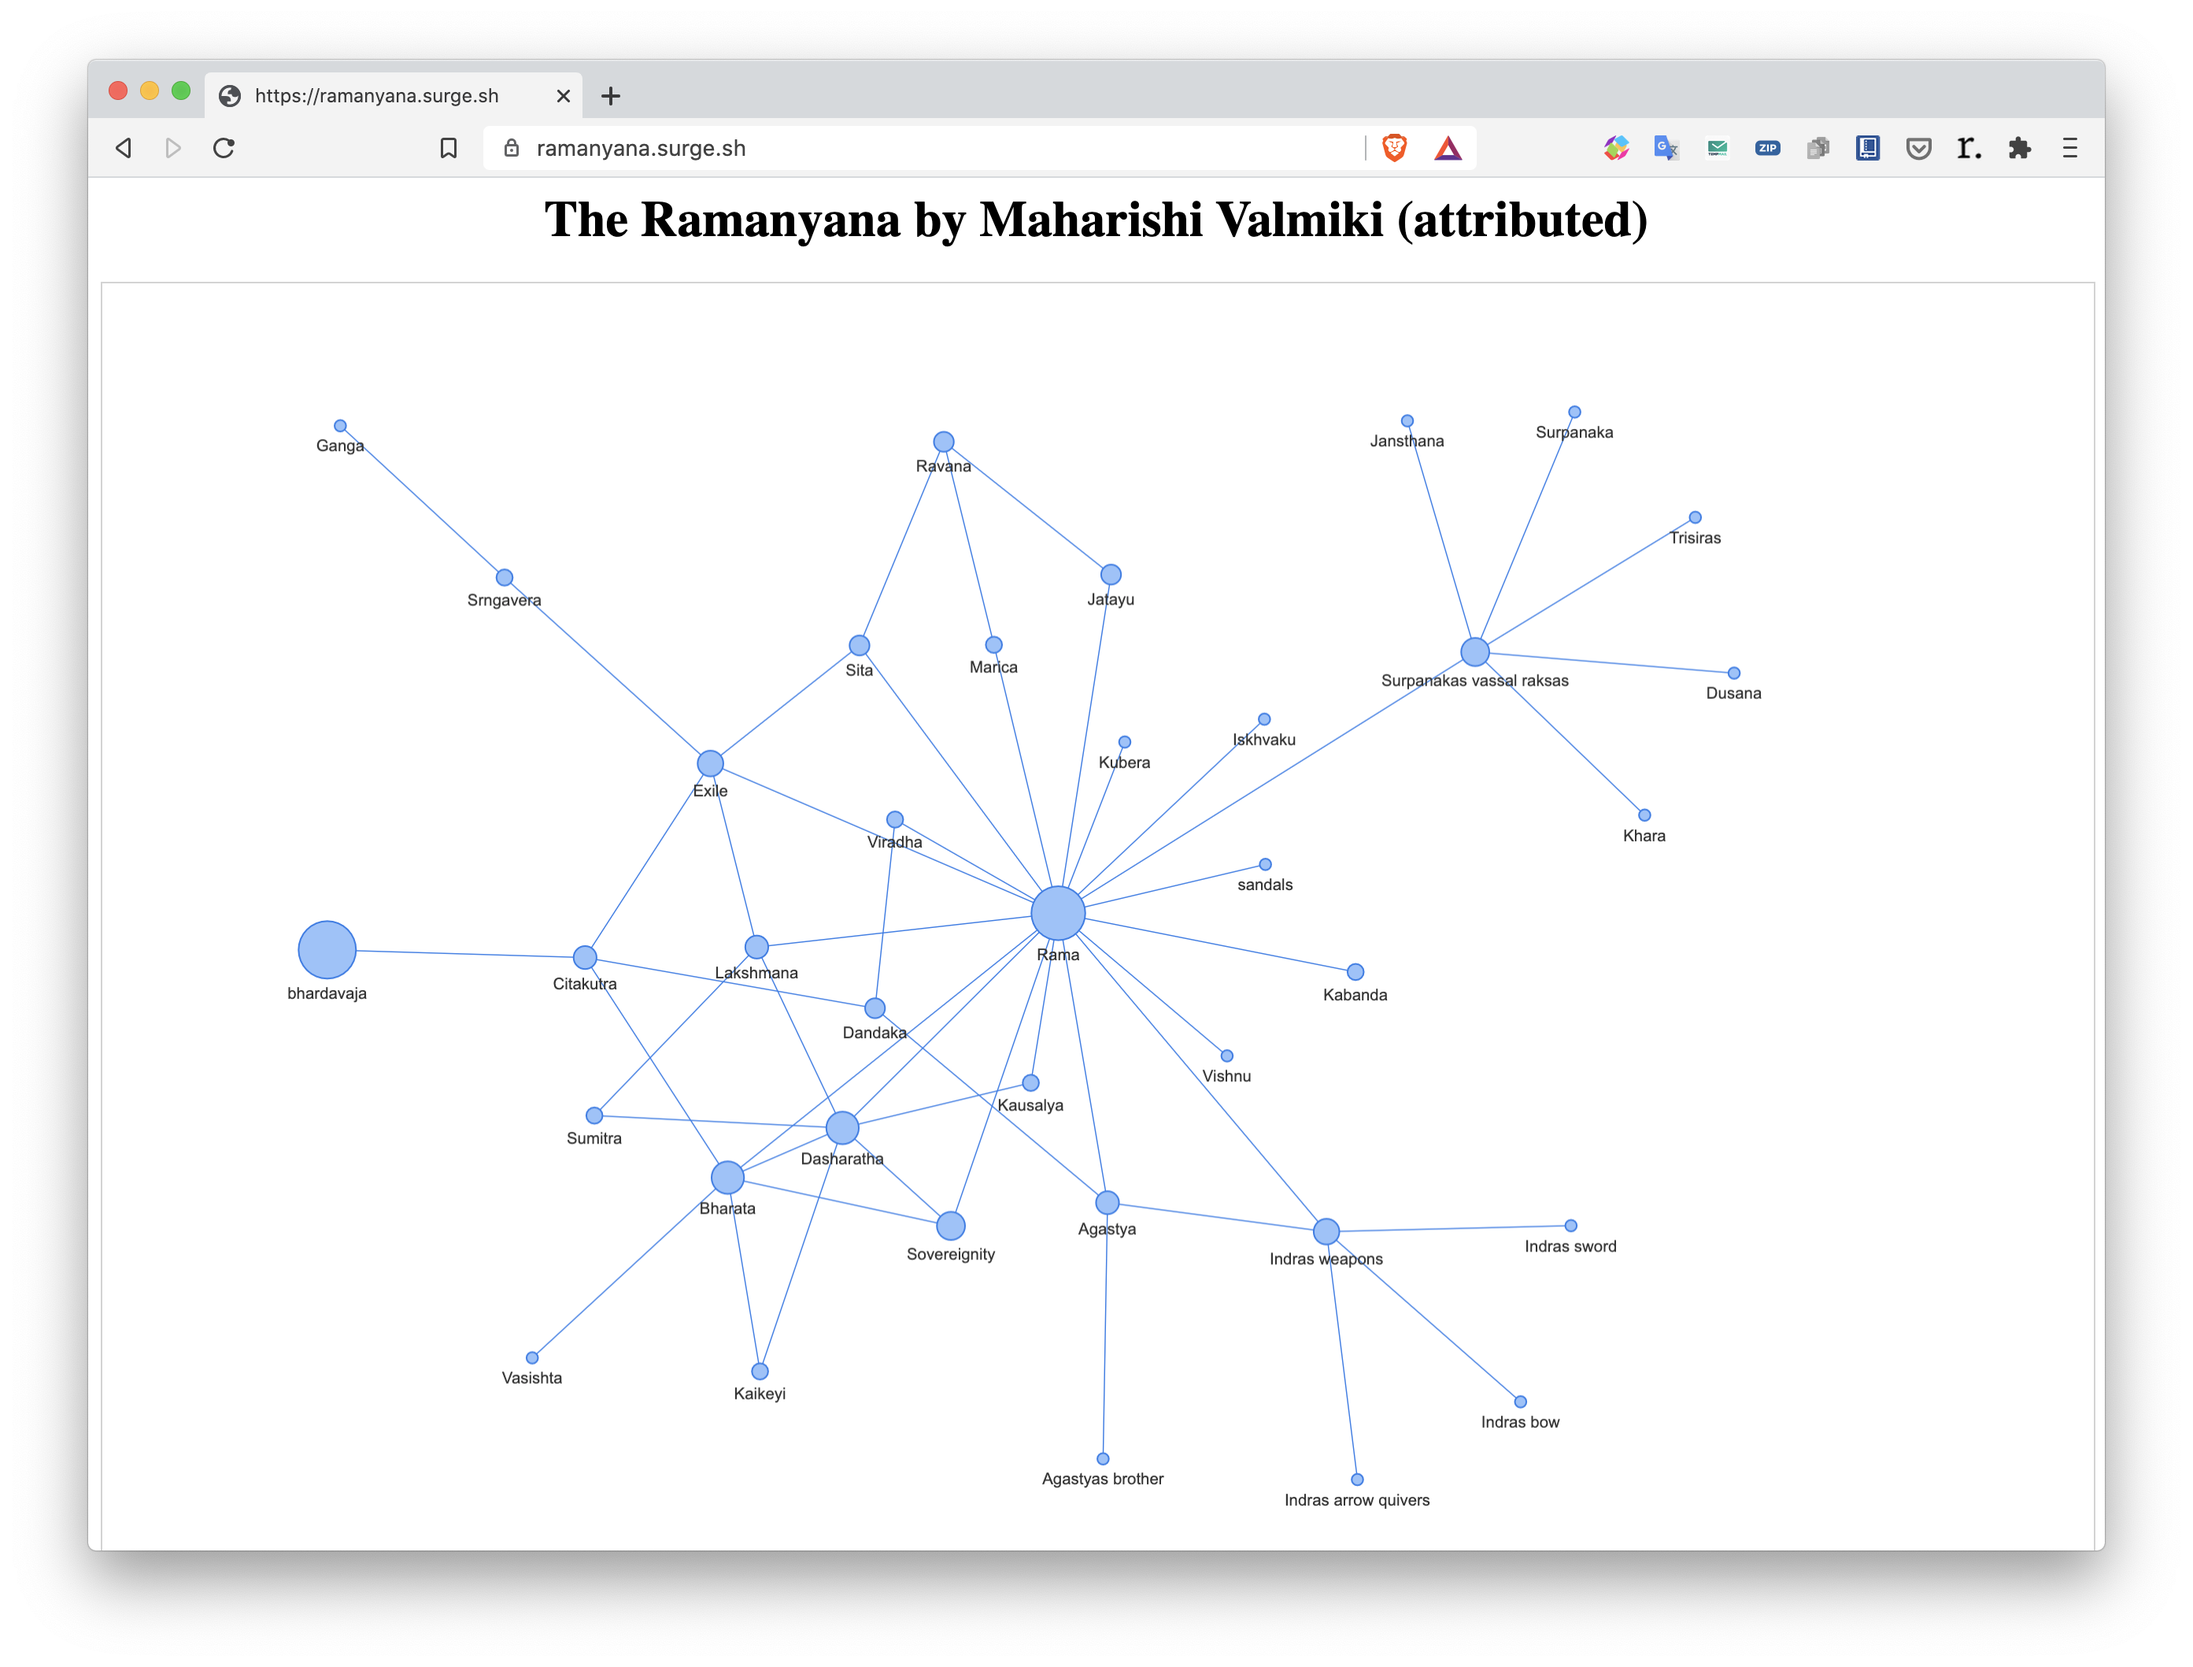
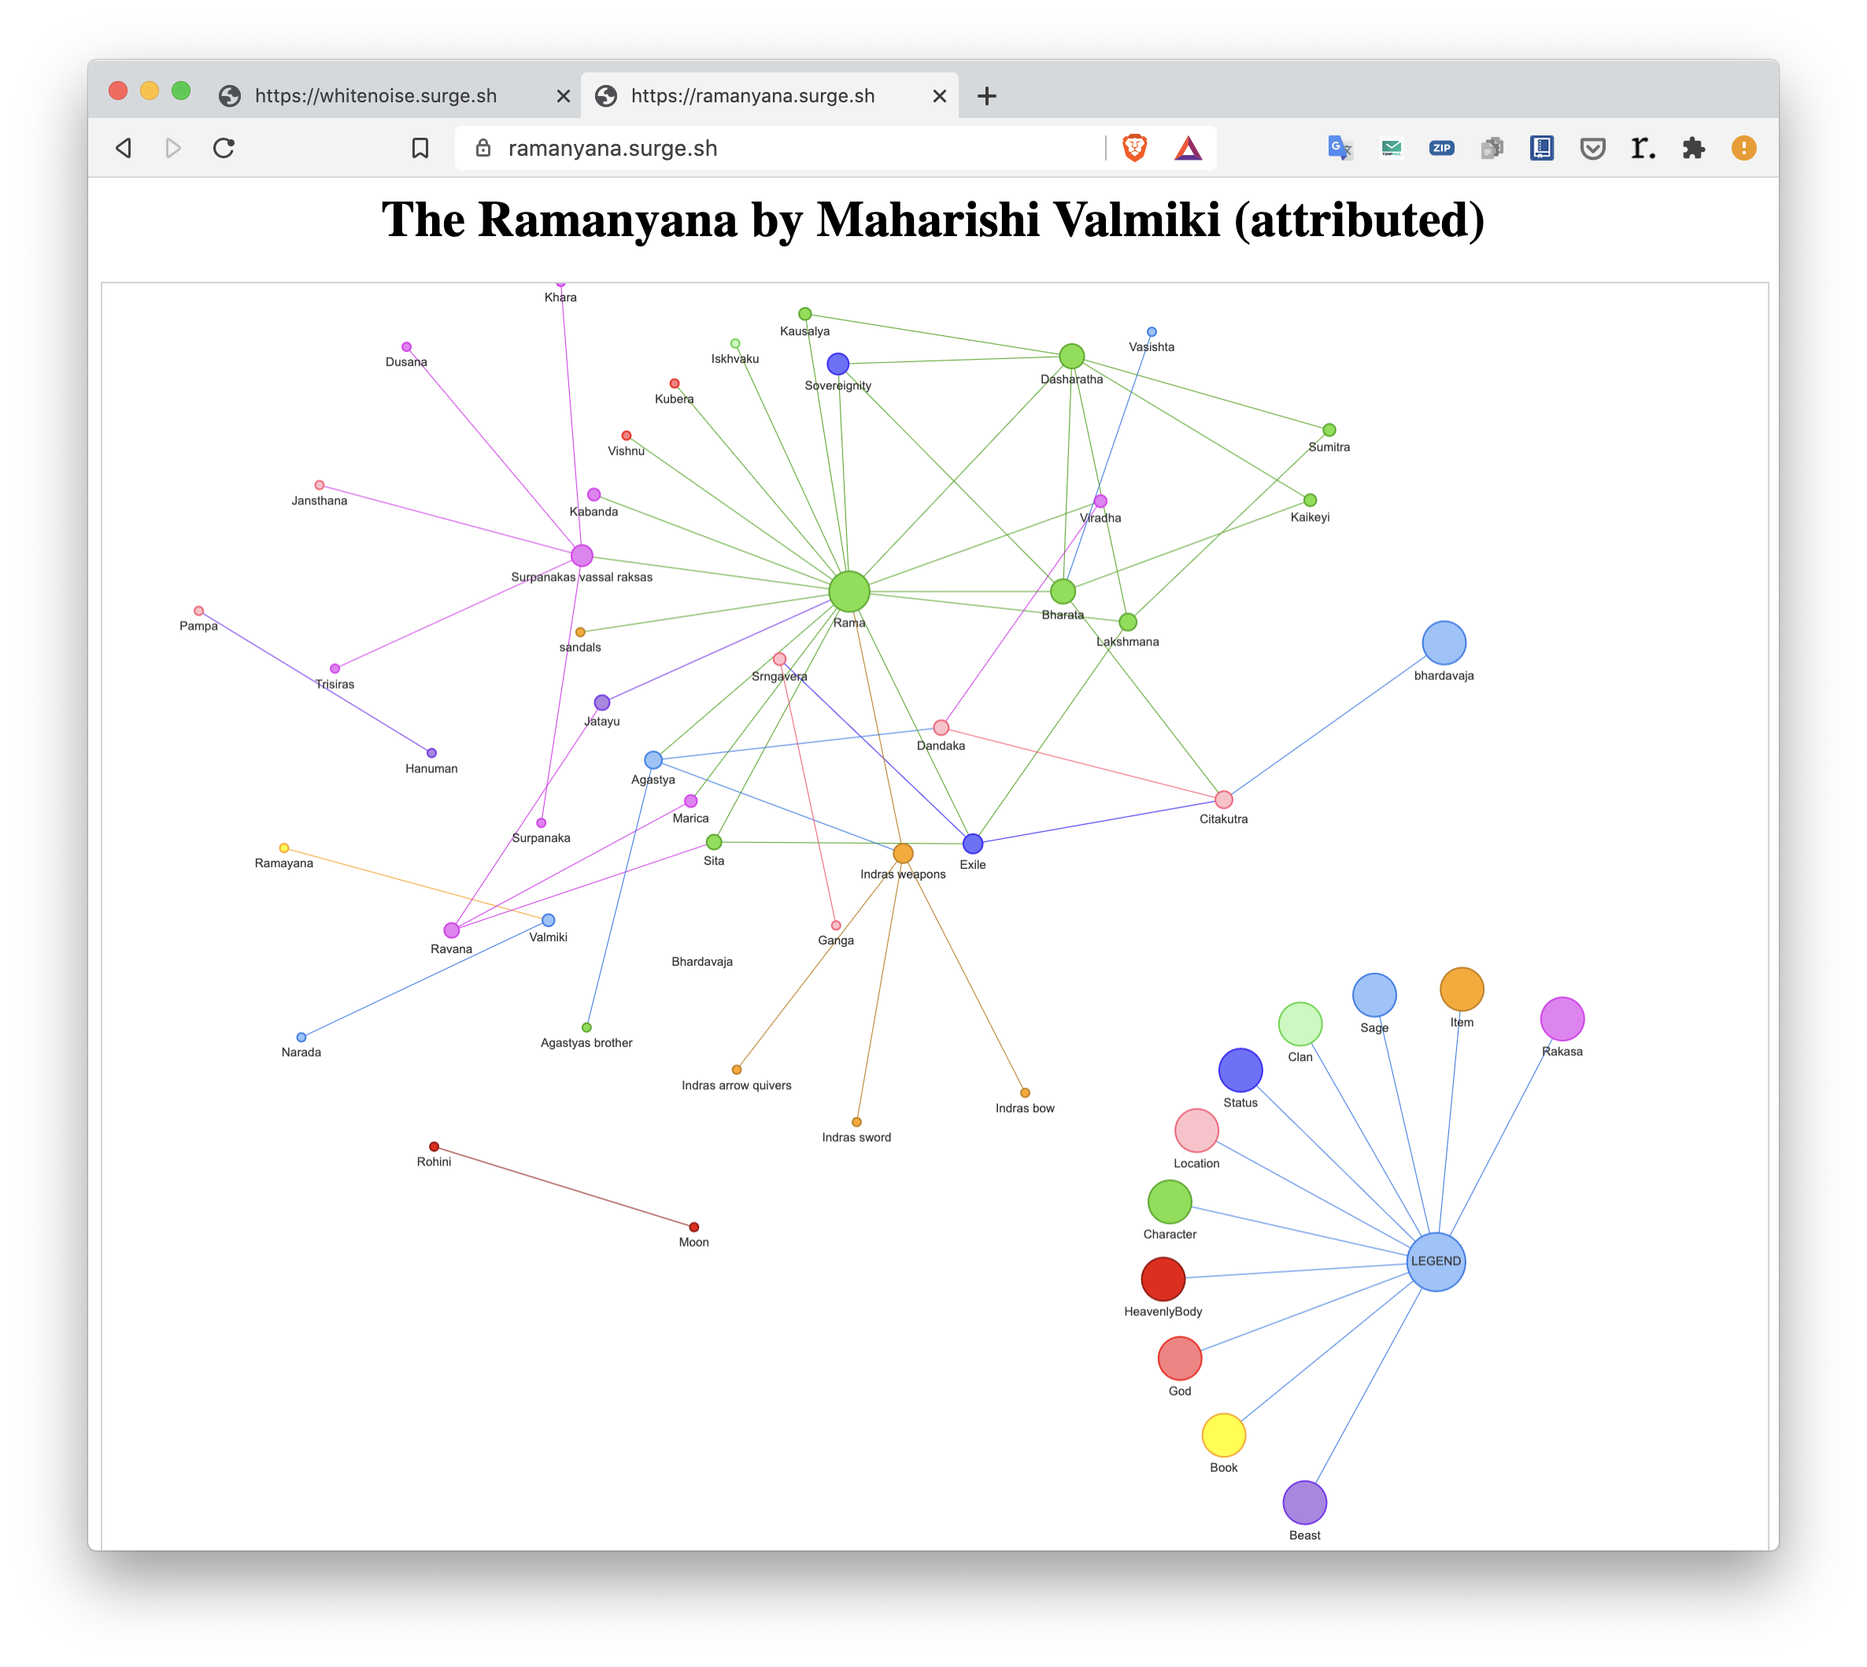
imporoved cy2p -- grouped, shapes (temporary off), bugfixes

diff --git a/utils/cy2pyvis.py b/utils/cy2pyvis.py
@@ -9,6 +9,7 @@ import collections
 from math import sqrt
 from subprocess import Popen
 from pyvis.network import Network
+from pyvis.node import Node
 
 
 def get_lines(filename: str) -> list:
@@ -31,12 +32,21 @@ def is_node(line: str) -> bool:
 
 
 def is_edge(line: str) -> bool:
-    return "[" in line
+    return "[:" in line
 
 
 def get_var_from_node(line: str) -> str:
     body = line.split("(")[1]
     return clean_str(body.split(":")[0])
+
+
+def get_label_from_node(line: str) -> list:
+    body = line.split("(")[1]
+    if " " in body:
+        labels = body.split(" ")[0]
+    else:
+        labels = body.split(")")[0]
+    return labels.split(":")[1:]
 
 
 def get_var_from_edge(line: str):
@@ -77,14 +87,16 @@ def get_nodes_occurences(edges: list) -> dict:
 def get_nodes_and_edges(lines: list):
     nodes = {}
     edges = []
+    labels = {}
     for line in lines:
         if is_node(line):
             var = get_var_from_node(line)
             name = get_first_prop(line)
             nodes[var] = name if name else var
+            labels[var] = get_label_from_node(line)
         if is_edge(line):
             edges.append((get_var_from_edge(line), get_edge(line)))
-    return nodes, edges
+    return nodes, edges, labels
 
 
 def get_title(line: str) -> str:
@@ -131,16 +143,38 @@ def main():
     net = Network("95%", "100%", heading=header)
     net.show_buttons()
 
-    nodes, edges = get_nodes_and_edges(lines)
+    nodes, edges, labels = get_nodes_and_edges(lines)
     node_weight = get_nodes_occurences(edges)
-    print(f"collected {len(nodes)} nodes, {len(edges)} edges")
+    print(f"collected {len(nodes)} nodes, {len(edges)} edges, {len(labels)} labels")
 
+    # shapes = {
+    #     "Person": "triangle",
+    #     "Institution": "star",
+    #     "Everything else": "dot",
+    # }
+    # net.add_node("LEGEND", shape="circle")
+    # for shape_key in shapes:
+    #     net.add_node(shape_key, shape=shapes[shape_key])
+    #     net.add_edge("LEGEND", shape_key)
+
+    label_set = set()
     for node in nodes:
-        net.add_node(node, label=nodes[node], size=(sqrt(node_weight[node]) * 5))
+        first_label = labels[node][0]
+        label_set.add(first_label)
+        # shape = shapes.get(first_label, "dot")
+        group = first_label if first_label else ""
+        net.add_node(
+            node, label=nodes[node], group=group, size=(sqrt(node_weight[node]) * 5),
+        )
     for vars, title in edges:
         var1, var2 = vars
         net.add_nodes([var1, var2])
         net.add_edge(var1, var2, title=title)
+
+    net.add_node("LEGEND", shape="circle")
+    for label in label_set:
+        net.add_node(label, group=label)
+        net.add_edge("LEGEND", label)
 
     load_dir = os.path.split(filename)[0]
     save_file = "index.html"
